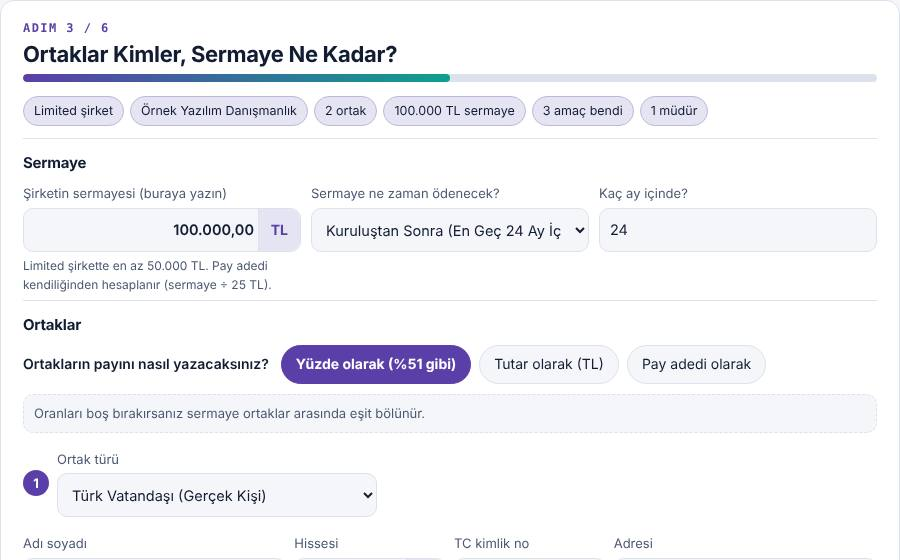
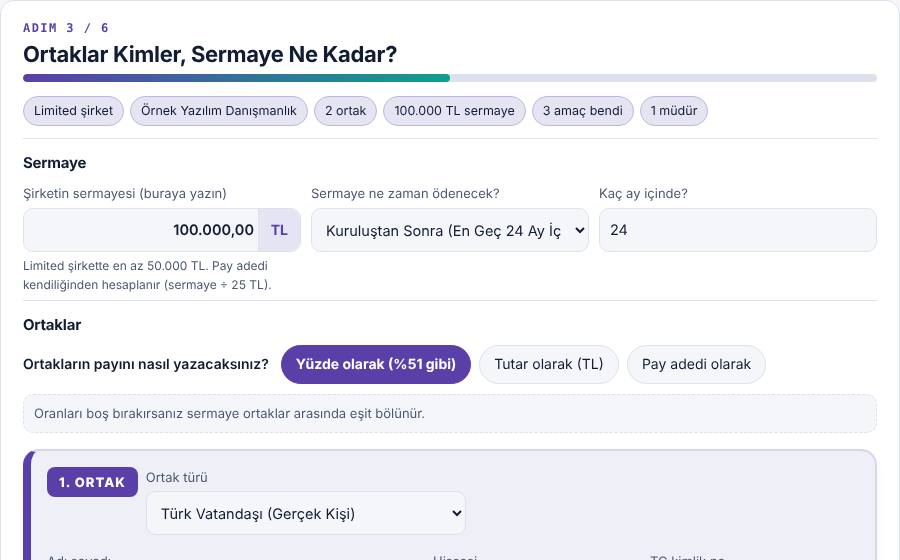
Ortaklar ayrı renkli kartlar; aynı ortak iki kez girilince uyarı ve ilerleme engeli
Claude-Session: https://claude.ai/code/session_018UFAVAkLcBcEWp4f4jsZc1

Changed region(s): [[0.0, 0.7893, 0.9644, 1.0], [0.4978, 0.9107, 0.56, 1.0], [0.6844, 0.9411, 0.7778, 1.0]]

diff --git a/site/index.html b/site/index.html
@@ -1200,6 +1200,7 @@ section[data-view],[id^="h-"],[id^="d-"],[id^="x-"],[id^="p-"]{scroll-margin-top
 .hlp-img img{width:100%;height:auto;max-height:260px;object-fit:cover;object-position:top;display:block;border-radius:10px;border:1px solid var(--rule);background:#fff}
 .bsl[role=button]{cursor:pointer}.bsl[role=button]:hover{filter:brightness(1.08)}
 .es-br{flex-basis:100%;height:0}.es-line>.es-kimf:nth-child(2){flex:0 1 320px!important}
+.es-card{position:relative;margin:16px 0!important;padding:16px 16px 12px!important;border:2px solid #D9D2F0!important;border-left:8px solid #5B3FA8!important;border-radius:16px;background:color-mix(in srgb,#5B3FA8 4%,var(--paper));box-shadow:0 6px 18px -14px rgba(40,20,90,.5)}.es-card.es-c2{border-left-color:#0E9F8E!important;background:color-mix(in srgb,#0E9F8E 5%,var(--paper))}.es-card.es-c2 .es-nol{background:#0E9F8E}.es-nol{width:auto!important;height:auto!important;flex:0 0 100%!important;align-self:flex-start!important;display:inline-flex!important;justify-content:flex-start;background:#5B3FA8;color:#fff;border-radius:8px!important;padding:5px 12px;font-size:13px;font-weight:800;letter-spacing:.08em;max-width:max-content;margin:0 0 4px}
 .by-fm{margin:10px 0 4px;padding:10px 12px;border-radius:12px;background:color-mix(in srgb,#2F4FA8 6%,var(--paper));border:1px solid color-mix(in srgb,#2F4FA8 25%,var(--rule))}.by-fm>b{display:block;font-size:13px;margin-bottom:6px}.by-fm>div{display:flex;flex-wrap:wrap;gap:6px}.by-fm a{display:inline-flex;align-items:center;gap:6px;padding:6px 10px;border-radius:10px;font-size:13.5px;text-decoration:none;font-weight:600}.by-gib{background:var(--paper);border:1px solid var(--rule);color:var(--ink)}.by-gib i{font-style:normal;font-size:11px;font-weight:700;color:#fff;background:#217346;border-radius:6px;padding:2px 6px}.by-arac{background:#5B3FA8;color:#fff!important}.by-ft td:last-child{white-space:nowrap}
 .or-tb td{vertical-align:top;font-size:14px}.or-tb td:first-child{white-space:nowrap}.or-tb th{text-align:left}.or-vg{margin:12px 0 4px;padding:14px 16px;border-radius:14px;background:color-mix(in srgb,#B45309 8%,var(--paper));border:1px solid color-mix(in srgb,#B45309 30%,var(--rule))}.or-vg h4{margin:0 0 8px;font-size:17px}.or-vg ul{margin:0 0 8px 18px;padding:0;font-size:14.5px;line-height:1.55}.or-vg li{margin:0 0 6px}.or-vg a{font-weight:700;font-size:14px}
 .ppl{display:grid;gap:8px}.ppl-r{display:grid;grid-template-columns:minmax(0,1fr) minmax(0,1fr) 36px;gap:6px;align-items:center;padding:8px;border:1px solid var(--rule);border-radius:12px}.ppl-r input[data-c="2"]{grid-column:1/3}.cmb-t{margin:6px 2px 0;font-size:13px;line-height:1.45;color:var(--ink-2)}.ppl-r input,.ppl-r select{width:100%;min-width:0;padding:9px 10px;border:1px solid var(--rule);border-radius:10px;font:inherit;font-size:14px;background:var(--paper);color:var(--ink)}.ppl-x{grid-row:1;grid-column:3;border:1px solid var(--rule);background:transparent;border-radius:9px;height:36px;cursor:pointer;color:var(--ink-2)}.ppl-x:hover{color:#c0392b;border-color:#c0392b}.ppl-add{display:flex;flex-wrap:wrap;gap:6px;margin-top:2px}.cmb-m{margin-top:6px}
@@ -5213,6 +5214,7 @@ document.addEventListener('keydown',function(ev){if(ev.key!=='Tab'||ev.shiftKey|
 (function(){var w=document.getElementById('c-qr');if(!w||!window.qrBox)return;var V='BEGIN:VCARD\nVERSION:3.0\nN:Karahan;Erdal;;;\nFN:Erdal Karahan\nORG:SMMM Erdal Karahan\nTITLE:Serbest Muhasebeci Mali Müşavir\nTEL;TYPE=WORK,VOICE:+902165502073\nEMAIL:info@erdalkarahan.com\nURL:https://erdalkarahan.com\nADR;TYPE=WORK:;Ziya Keleş İş Hanı No:22/8;Osmanağa Mah. General Asım Gündüz Cad. Ali Suavi Sk.;Kadıköy;İstanbul;34714;Türkiye\nEND:VCARD';
   w.innerHTML=qrBox(V,'Kartvizit: rehbere ekleyin','erdalkarahan-kartvizit')+qrBox('https://www.google.com/maps/dir/?api=1&destination=40.98925%2C29.03005','Yol tarifi: telefonda açın','erdalkarahan-yol-tarifi');
   var t=w.querySelector('.qr-tx');if(t){var b=document.createElement('button');b.type='button';b.className='qr-vcf';b.textContent='Rehbere ekle (.vcf)';b.onclick=function(){var a=document.createElement('a');a.href=URL.createObjectURL(new Blob([V.replace(/\n/g,'\r\n')],{type:'text/vcard'}));a.download='Erdal-Karahan-SMMM.vcf';document.body.appendChild(a);a.click();setTimeout(function(){URL.revokeObjectURL(a.href);a.remove();},500);};t.appendChild(b);}})();
+window.ekDupMsg=function(K,i){var k=K[i];function n(x){return String(x||'').toLocaleLowerCase('tr-TR').replace(/\s+/g,' ').trim();}var id=String(k.kimlik||''),ad=n(k.ad);for(var j=0;j<i;j++){var o=K[j];if(id&&id===String(o.kimlik||''))return 'Bu numara '+(j+1)+'. ortakla aynı; aynı ortağı iki kez girmiş olabilirsiniz.';if(ad&&ad===n(o.ad))return 'Bu ad '+(j+1)+'. ortakla aynı; aynı ortağı iki kez girmiş olabilirsiniz.';}return '';};
 
 window.ekBlockShow=function(root,id,L){var b=document.getElementById(id);if(!b)return;if(!L.length){b.hidden=true;b.innerHTML='';return;}b.hidden=false;b.innerHTML='<b>⛔ Devam etmeden önce düzeltin:</b><ul>'+L.map(function(x){return '<li>'+esc(x)+'</li>';}).join('')+'</ul>';b.classList.remove('shk');void b.offsetWidth;b.classList.add('shk');b.scrollIntoView({block:'center',behavior:'smooth'});};
 
@@ -5338,7 +5340,7 @@ window.ekYuzMsg=function(K){var Y=K.map(function(k){return num(k.yuz);}),any=Y.s
      +'<div class="fb-sec"><h4>Merkez</h4><div class="fb-row">'+fld('il','İl',{ph:'İstanbul'})+fld('ilce','İlçe',{ph:'Kadıköy'})+fld('adres','Açık adres',{w:1,ph:'Caferağa Mah. Moda Cad. No: 1 Daire: 2'})+'</div></div>';
    if(step===2){var v=itb(),S=sermaye(),q=yuzL();return '<div class="fb-sec'+(S||st.pm==='adet'?'':' es-need')+'"><h4>Sermaye</h4><div class="fb-row">'+fld('ser','Şirketin sermayesi (buraya yazın)',{type:'money',ph:ltd?'ör. 50.000':'ör. 250.000',hint:(ltd?'Limited şirkette en az 50.000 TL.':'Anonim şirkette en az 250.000 TL.')+(st.pm==='adet'?' Boş bırakırsanız pay adetlerinden hesaplanır.':' Pay adedi kendiliğinden hesaplanır (sermaye ÷ '+mny(v)+' TL).')})
        +fld('odeme','Sermaye ne zaman ödenecek?',{type:'select',opts:ltd?[['sonra','Kuruluştan sonra (en geç 24 ay içinde)'],['once','Tamamı kuruluştan önce ödendi']]:[['sonra','%25’i kuruluştan önce, kalanı sonra'],['once','Tamamı kuruluştan önce ödendi']]})+(st.odeme==='sonra'?fld('ay','Kaç ay içinde?',{ph:'24'}):'')+'</div></div>'
-       +'<div class="fb-sec"><h4>'+(ltd?'Ortaklar':'Pay sahipleri')+'</h4>'+'<div class="es-seg" role="group" aria-label="Pay giriş şekli"><span>Ortakların payını nasıl yazacaksınız?</span><button type="button" data-pm="yuz" class="'+(st.pm!=='tut'?'on':'')+'">Yüzde olarak (%51 gibi)</button><button type="button" data-pm="tut" class="'+(st.pm==='tut'?'on':'')+'">Tutar olarak (TL)</button><button type="button" data-pm="adet" class="'+(st.pm==='adet'?'on':'')+'">Pay adedi olarak</button></div>'+(st.pm==='adet'?'<p class="fb-tip">Her payın değeri '+mny(v)+' TL. Örneğin 2.000 pay = '+mny(2000*v)+' TL. Pay değerini aşağıdan değiştirebilirsiniz.</p>':'')+(st.kur.length>1&&st.pm!=='tut'&&st.pm!=='adet'?'<p class="fb-tip">Oranları boş bırakırsanız sermaye ortaklar arasında eşit bölünür.</p>':'')+st.kur.map(function(k,i){var t=tutOf(i);return '<div class="fb-line es-line"><b class="es-no">'+(i+1)+'</b>'+ekKimHtml(i,k,(function(){var f=function(x){return e(x);};f.mode='tur';return f;})())+'<span class="es-br"></span>'
+       +'<div class="fb-sec"><h4>'+(ltd?'Ortaklar':'Pay sahipleri')+'</h4>'+'<div class="es-seg" role="group" aria-label="Pay giriş şekli"><span>Ortakların payını nasıl yazacaksınız?</span><button type="button" data-pm="yuz" class="'+(st.pm!=='tut'?'on':'')+'">Yüzde olarak (%51 gibi)</button><button type="button" data-pm="tut" class="'+(st.pm==='tut'?'on':'')+'">Tutar olarak (TL)</button><button type="button" data-pm="adet" class="'+(st.pm==='adet'?'on':'')+'">Pay adedi olarak</button></div>'+(st.pm==='adet'?'<p class="fb-tip">Her payın değeri '+mny(v)+' TL. Örneğin 2.000 pay = '+mny(2000*v)+' TL. Pay değerini aşağıdan değiştirebilirsiniz.</p>':'')+(st.kur.length>1&&st.pm!=='tut'&&st.pm!=='adet'?'<p class="fb-tip">Oranları boş bırakırsanız sermaye ortaklar arasında eşit bölünür.</p>':'')+st.kur.map(function(k,i){var t=tutOf(i);return '<div class="fb-line es-line es-card'+(i%2?' es-c2':'')+'"><b class="es-no es-nol">'+(i+1)+'. '+(ltd?'ORTAK':'PAY SAHİBİ')+'</b>'+ekKimHtml(i,k,(function(){var f=function(x){return e(x);};f.mode='tur';return f;})())+'<span class="es-br"></span>'
        +lf('kur',i,'ad',ekTuzel(k)?'Şirketin unvanı':'Adı soyadı',{w:1})+(st.pm==='tut'?lf('kur',i,'tut','Sermaye payı',{m:1}):'')+(st.pm==='adet'?lf('kur',i,'adet','Pay adedi',{m:1,sfx:'pay',ph:'ör. 2.000'}):'')+(st.pm!=='tut'&&st.pm!=='adet'?lf('kur',i,'yuz','Hissesi',{m:1,pct:1,ph:NI(Math.round(1000/st.kur.length)/10)}):'')+ekKimHtml(i,k,(function(){var f=function(x){return e(x);};f.mode='kim';return f;})())+lf('kur',i,'adr','Adresi',{w:1})
        +'<p class="es-pay"><span id="es-pay'+i+'">'+payTxt(i)+'</span>'+(st.kur.length>1?'<button type="button" class="es-cik" data-dl="kur" data-i="'+i+'">× Bu ortağı çıkar</button>':'')+'</p></div>';}).join('')
        +'<button type="button" class="fb-add" data-a="kur">+ '+(ltd?'Ortak':'Pay sahibi')+' ekle</button>'+ekYabNot(st.kur)
@@ -5376,8 +5378,8 @@ window.ekYuzMsg=function(K){var Y=K.map(function(k){return num(k.yuz);}),any=Y.s
  function blk(n){var B=[];if(n===2){var S=sermaye(),min=LTD()?50000:250000;if(!S)B.push('Şirketin sermayesini yazın.');else if(S<min)B.push((LTD()?'Limited':'Anonim')+' şirkette sermaye en az '+mny(min)+' TL olmalı.');
    if(st.pm!=='tut'&&st.pm!=='adet'){var q=yuzL();if(q.any&&Math.abs(q.top-100)>0.001&&(q.top>100||q.Y.every(function(y){return isFinite(y);})))B.push('Ortakların oranları toplamı %'+NI(q.top)+'; tam %100 olmalı.');}
    else{var ST=num(st.ser),TT=st.kur.reduce(function(a,k,i){var t=tutOf(i);return a+(isFinite(t)?t:0);},0);if(isFinite(ST)&&ST>0&&TT&&Math.abs(TT-ST)>0.01)B.push('Ortakların payları toplamı ('+mny(TT)+' TL) sermayeye ('+mny(ST)+' TL) eşit olmalı.');}
-   st.kur.forEach(function(k,i){var m=ekKimErr(k);if(m)B.push((k.ad||((i+1)+'. ortak'))+': '+m);});}return B;}
- function prev(){var eb=document.getElementById('es-block');if(eb&&!eb.hidden&&!blk(step).length){eb.hidden=true;}st.kur.forEach(function(k,i){var el=document.getElementById('es-pay'+i);if(el)el.innerHTML=payTxt(i);var ke=document.getElementById('kerr'+i);if(ke)ke.textContent=ekKimErr(k);});var yw=document.getElementById('es-yw');if(yw)yw.innerHTML=st.pm!=='tut'&&st.pm!=='adet'?ekYuzMsg(st.kur):'';var d=document.getElementById('es-doc');if(d){d.innerHTML=doc(false);fit(d);}
+   st.kur.forEach(function(k,i){var m=ekKimErr(k)||ekDupMsg(st.kur,i);if(m)B.push((k.ad||((i+1)+'. ortak'))+': '+m);});}return B;}
+ function prev(){var eb=document.getElementById('es-block');if(eb&&!eb.hidden&&!blk(step).length){eb.hidden=true;}st.kur.forEach(function(k,i){var el=document.getElementById('es-pay'+i);if(el)el.innerHTML=payTxt(i);var ke=document.getElementById('kerr'+i);if(ke)ke.textContent=ekKimErr(k)||ekDupMsg(st.kur,i);});var yw=document.getElementById('es-yw');if(yw)yw.innerHTML=st.pm!=='tut'&&st.pm!=='adet'?ekYuzMsg(st.kur):'';var d=document.getElementById('es-doc');if(d){d.innerHTML=doc(false);fit(d);}
    var DN0=R.classList.contains('es-done'),W=warns().filter(function(x){var k=/unvan/i.test(x)?1:/amaç ve konu/i.test(x)?3:/müdür|yönetim kurulu üye/i.test(x)?4:2,eksik=/^Unvanı yazın|henüz bent yok/.test(x);return DN0||k<step||(k===step&&!eksik);}),w=document.getElementById('es-warn');if(w)w.hidden=!W.length&&!DN0;if(w)w.innerHTML=W.length?'<b>Kontrol edin:</b><ul>'+W.map(function(x){return '<li>'+e(x)+'</li>';}).join('')+'</ul>':'<b>✓ Zorunlu bilgiler tamam görünüyor.</b> Metni ticaret sicili müdürlüğünün güncel uygulamasına göre son kez kontrol edin.';
    w&&w.classList.toggle('ok',!W.length);
    var sm=$('.es-sum',R);if(step===2&&sm){var S=sermaye(),v=itb();sm.innerHTML='Toplam sermaye: <b>'+(S?mny(S)+' TL':'—')+'</b>'+(S?' · '+NI(Math.round(S/v))+' pay':'');}}
@@ -5497,7 +5499,7 @@ document.addEventListener('focusout',function(ev){var el=ev.target;if(!el||el.ta
  function stepHtml(){var is=IS();
    if(step===0)return '<div class="fb-sec"><div class="es-tur"><button type="button" data-tur="adi" class="'+(!is?'on':'')+'"><b>Adi ortaklık</b><small>İki ya da daha fazla kişi ya da şirket, bir işi süreli veya süresiz birlikte yürütür. Tüzel kişiliği yok; vergiyi ortaklar öder.</small></button><button type="button" data-tur="is" class="'+(is?'on':'')+'"><b>İş ortaklığı</b><small>En az biri şirket olan ortaklar belli bir işi (çoğunlukla bir ihaleyi) birlikte yapar. Kurumlar vergisi mükellefi olur.</small></button></div>'
      +'<div class="or-vg"><h4>'+(is?'İş ortaklığı':'Adi ortaklık')+' vergide neye tabi?</h4><ul>'+VG[is?'is':'adi'].map(function(x){return '<li>'+x+'</li>';}).join('')+'</ul><a href="#or-karsi">Adi ortaklık, iş ortaklığı ve konsorsiyum karşılaştırması ↓</a></div></div>';
-   if(step===1)return '<div class="fb-sec"><h4>Ortaklar</h4><p class="fb-tip">Payları boş bırakırsanız ortaklar arasında eşit bölünür.</p>'+st.kur.map(function(k,i){var y=yuz(i);return '<div class="fb-line es-line"><b class="es-no">'+(i+1)+'</b>'+ekKimHtml(i,k,(function(){var f=function(x){return e(x);};f.mode='tur';return f;})())+'<span class="es-br"></span>'
+   if(step===1)return '<div class="fb-sec"><h4>Ortaklar</h4><p class="fb-tip">Payları boş bırakırsanız ortaklar arasında eşit bölünür.</p>'+st.kur.map(function(k,i){var y=yuz(i);return '<div class="fb-line es-line es-card'+(i%2?' es-c2':'')+'"><b class="es-no es-nol">'+(i+1)+'. '+'ORTAK'+'</b>'+ekKimHtml(i,k,(function(){var f=function(x){return e(x);};f.mode='tur';return f;})())+'<span class="es-br"></span>'
        +lf('kur',i,'ad',ekTuzel(k)?'Şirketin unvanı':'Adı soyadı',{w:1})+lf('kur',i,'yuz','Payı',{m:1,pct:1,ph:NI(Math.round(10000/st.kur.length)/100)})+ekKimHtml(i,k,(function(){var f=function(x){return e(x);};f.pre='or-';f.mode='kim';return f;})())+lf('kur',i,'adr','Adresi',{w:1})
        +'<details class="es-more"><summary>Katkısı (isteğe bağlı)</summary><div class="es-line">'+lf('kur',i,'katki','Ne koyuyor?',{w:1,ph:'200.000 TL nakit ve iş makineleri'})+'</div></details>'
        +'<p class="es-pay">Payı: <b>%'+(isFinite(y)?NI(y):'—')+'</b>'+(st.kur.length>2?'<button type="button" class="es-cik" data-dl="kur" data-i="'+i+'">× Bu ortağı çıkar</button>':'')+'</p></div>';}).join('')
@@ -5517,8 +5519,8 @@ document.addEventListener('focusout',function(ev){var el=ev.target;if(!el||el.ta
    f.innerHTML=DN?readyHtml():'<div class="es-q"><small>Adım '+(step+1)+' / '+STEPS.length+'</small><h3>'+e(QS[step])+'</h3><div class="es-pb"><i style="width:'+Math.round((step+1)/STEPS.length*100)+'%"></i></div></div>'+stepHtml();
    var pv=$('#or-prev',R);pv.textContent=DN?'✎ Bilgileri düzenle':'← Önceki adım';if(step===0&&!DN)pv.style.setProperty('display','none','important');else pv.style.removeProperty('display');
    $('#or-next',R).hidden=DN;$('#or-next',R).textContent=step===STEPS.length-1?'✓ Sözleşmeyi oluştur':'Sonraki adım →';prev();}
- function blk(n){var B=[];if(n===1){var L=kurL();if(L.length<2)B.push('En az iki ortağın adını yazın.');var t=ytop();if(Math.abs(t-100)>0.01&&(t>100||st.kur.every(function(k){return isFinite(num(k.yuz));})))B.push('Ortakların payları toplamı %'+NI(t)+'; tam %100 olmalı.');st.kur.forEach(function(k,i){var m=ekKimErr(k);if(m)B.push((k.ad||((i+1)+'. ortak'))+': '+m);});}if(n===2&&!st.konu)B.push('Ortaklığın konusunu (yapılacak işi) yazın.');return B;}
- function prev(){var eb=document.getElementById('or-block');if(eb&&!eb.hidden&&!blk(step).length){eb.hidden=true;}st.kur.forEach(function(k,i){var ke=document.getElementById('or-kerr'+i);if(ke)ke.textContent=ekKimErr(k);});var yw=document.getElementById('or-yw');if(yw)yw.innerHTML=ekYuzMsg(st.kur);var d=document.getElementById('or-doc');if(d){d.innerHTML=doc(false);fit(d);}var DN=R.classList.contains('es-done');
+ function blk(n){var B=[];if(n===1){var L=kurL();if(L.length<2)B.push('En az iki ortağın adını yazın.');var t=ytop();if(Math.abs(t-100)>0.01&&(t>100||st.kur.every(function(k){return isFinite(num(k.yuz));})))B.push('Ortakların payları toplamı %'+NI(t)+'; tam %100 olmalı.');st.kur.forEach(function(k,i){var m=ekKimErr(k)||ekDupMsg(st.kur,i);if(m)B.push((k.ad||((i+1)+'. ortak'))+': '+m);});}if(n===2&&!st.konu)B.push('Ortaklığın konusunu (yapılacak işi) yazın.');return B;}
+ function prev(){var eb=document.getElementById('or-block');if(eb&&!eb.hidden&&!blk(step).length){eb.hidden=true;}st.kur.forEach(function(k,i){var ke=document.getElementById('or-kerr'+i);if(ke)ke.textContent=ekKimErr(k)||ekDupMsg(st.kur,i);});var yw=document.getElementById('or-yw');if(yw)yw.innerHTML=ekYuzMsg(st.kur);var d=document.getElementById('or-doc');if(d){d.innerHTML=doc(false);fit(d);}var DN=R.classList.contains('es-done');
    var W=warns().filter(function(x){var k=/konusunu/.test(x)?2:/şirket \(kurum\)|en az iki|toplamı/.test(x)?1:9;return DN||k<step;}),w=document.getElementById('or-warn');
    if(w){w.hidden=!W.length&&!DN;w.innerHTML=W.length?'<b>Kontrol edin:</b><ul>'+W.map(function(x){return '<li>'+e(x)+'</li>';}).join('')+'</ul>':'<b>✓ Bilgiler tamam görünüyor.</b> İmzadan önce metni son kez okuyun.';w.classList.toggle('ok',!W.length);}}
  function fit(d){if(!d||!d.parentNode)return;var w=d.parentNode.clientWidth;if(!w)return;d.style.width='780px';d.style.zoom=String(Math.min(1,(w-2)/780));}
@@ -5582,7 +5584,7 @@ document.addEventListener('focusout',function(ev){var el=ev.target;if(!el||el.ta
   gecbeyan:{t:'Beyanname vermeme cezası nasıl hesaplanır?',s:[['ceza','1. Beyannameyi ve tarihleri seçin','Beyanname türünü, son günü ve vereceğiniz günü girin.'],['steps','2. Soruları yanıtlayın','Pişmanlıkla mı veriyorsunuz, tahakkuk ne kadar gibi kısa sorular gelir.'],['bitti','3. Toplamı görün','Vergi, gecikme zammı, usulsüzlük cezası ve SGK idari para cezası tek toplamda gösterilir; birden fazla beyanname ekleyebilirsiniz.']]},
   arackdv:{t:'Araç KDV oranı nasıl bulunur?',s:[['arac','1. Aracı seçin','Binek, kamyonet, iş makinesi gibi aracın türünü seçin.'],['steps','2. Soruları yanıtlayın','İkinci el mi, satıcı galeri mi gibi sorular gelir.'],['bitti','3. Sonuç','KDV oranı, dayanağı, alıcının indirimi ve muhasebe kaydı açılır.']]}
  };
- var SH={esas:['esas-0','esas-0','esas-1','esas-2','esas-2',null,'esas-3','esas-4','esas-6',null],ortaklik:['or-0','or-0','or-1',null,'or-2','or-4',null],sirket:['sk-0','sk-1','sk-2','sk-3',null],gecbeyan:['gb-0','gb-1',null],arackdv:['ak-0','ak-1',null]},VER='202611111640';
+ var SH={esas:['esas-0','esas-0','esas-1','esas-2','esas-2',null,'esas-3','esas-4','esas-6',null],ortaklik:['or-0','or-0','or-1',null,'or-2','or-4',null],sirket:['sk-0','sk-1','sk-2','sk-3',null],gecbeyan:['gb-0','gb-1',null],arackdv:['ak-0','ak-1',null]},VER='202611111650';
  var MAP={sirket:'sirket',amackonu:'esas',ortaklik:'ortaklik',gecbeyan:'gecbeyan',arackdv:'arackdv'};
  function open(key){var h=H[key];if(!h)return;var m=document.getElementById('hlp-modal');if(!m){m=document.createElement('div');m.id='hlp-modal';m.setAttribute('role','dialog');m.setAttribute('aria-modal','true');document.body.appendChild(m);
      m.addEventListener('click',function(e){if(e.target===m||e.target.closest('[data-hx]')){m.hidden=true;document.documentElement.style.overflow='';}});document.addEventListener('keydown',function(e){if(e.key==='Escape'&&!m.hidden){m.hidden=true;document.documentElement.style.overflow='';}});}
